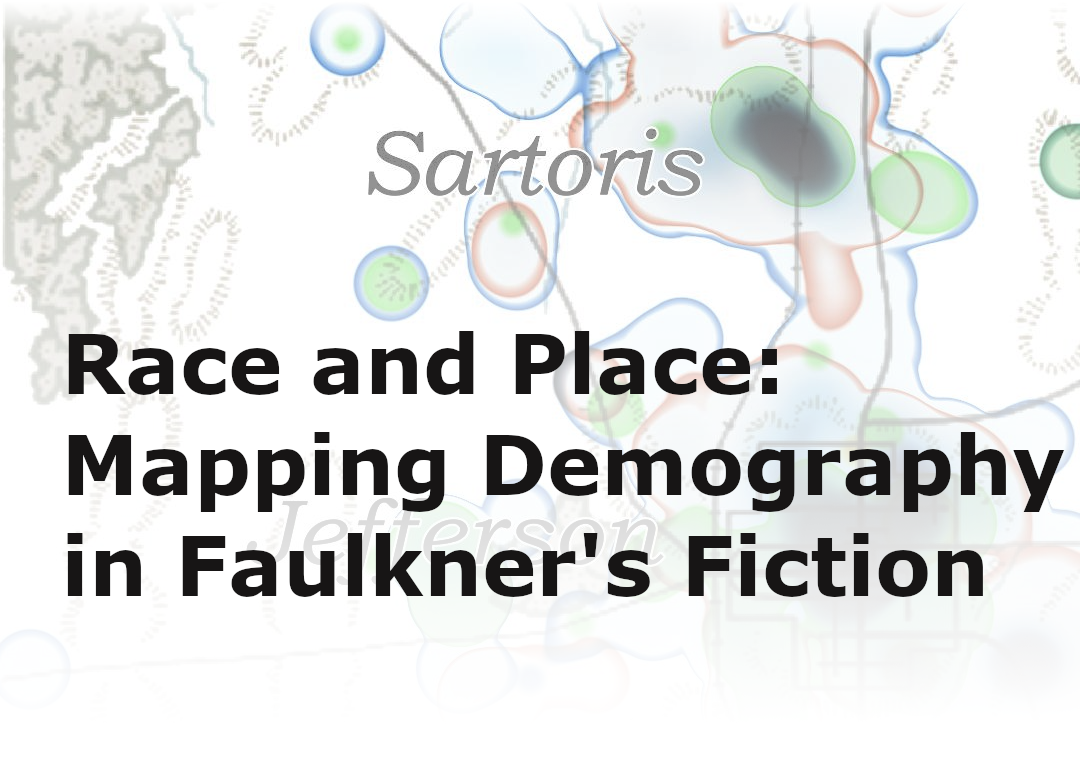
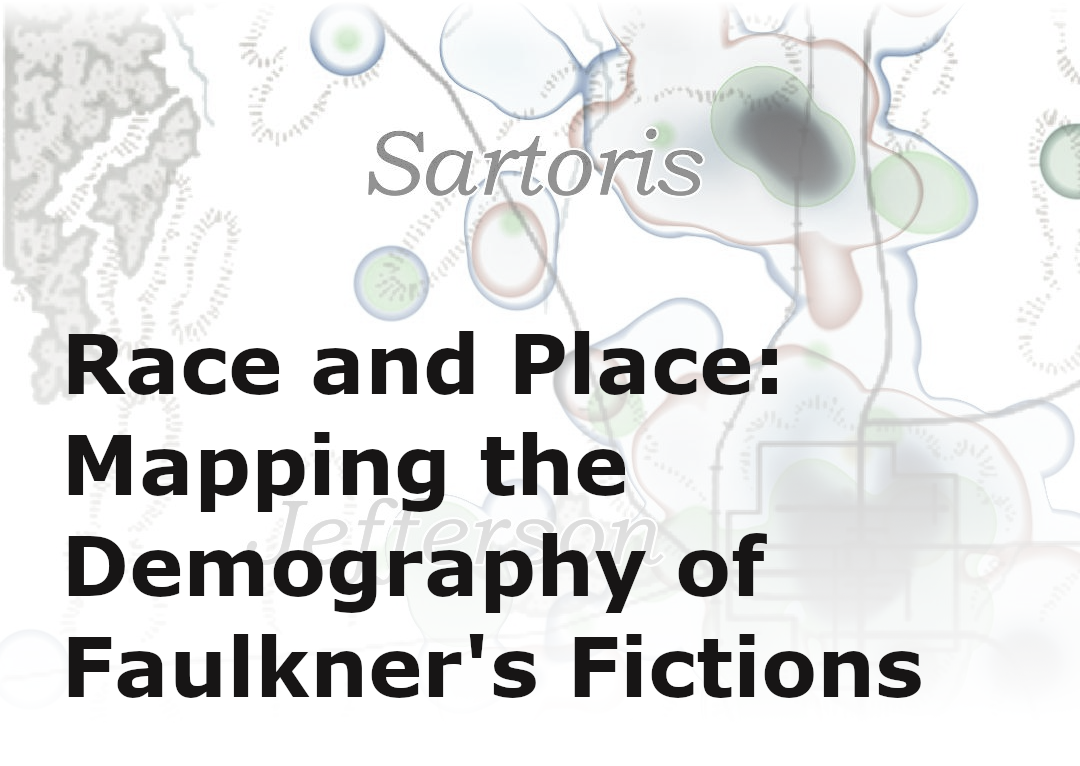
newer card

diff --git a/index.html b/index.html
@@ -12,9 +12,9 @@
   <meta property="og:url" content="https://joostburgers.github.io/racial_demography/" />
   <!-- TODO change this to the current address -->
   <meta property="og:type" content="article" />
-  <meta property="og:title" content="Race and Place: Visualizing Racial Demography in Yoknapatawpha" />
+  <meta property="og:title" content="Race and Place: Mapping Demography in Faulkner's Fiction" />
   <meta property="og:description" content="Creating demographic maps of fictional texts" />
-  <meta property="og:image" content="https://joostburgers.github.io/racial_demography/images/Heatmap_header_preview_card.png" />
+  <meta property="og:image" content="https://joostburgers.github.io/racial_demography/images/Heatmap_header_preview_new_card.png" />
   <meta property="og:image:type" content="image/png" />
   <meta property="og:image:width" content="1200" />
   <meta property="og:image:height" content="600" />
@@ -144,7 +144,7 @@
       <div class="essay-header">
         <img src="images/Heatmap_header.png" class="header-image"></a>
         <div class="essay-title">
-          <h1 class="content_title">Race and Place: Visualizing Racial Demography in Yoknapatawpha</h1>
+          <h1 class="content_title">Race and Place: Mapping the Demography of Faulkner's Fictions</h1>
           <h2 class="content_sub_title">Johannes Burgers</h2>
         </div>
       </div>
